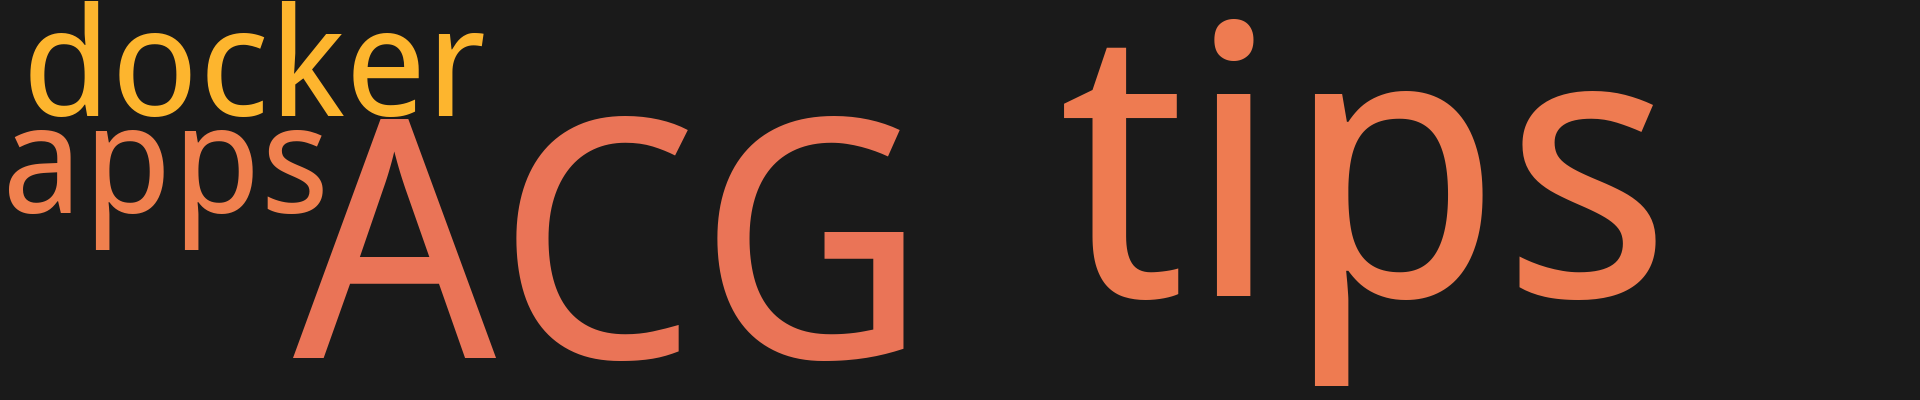
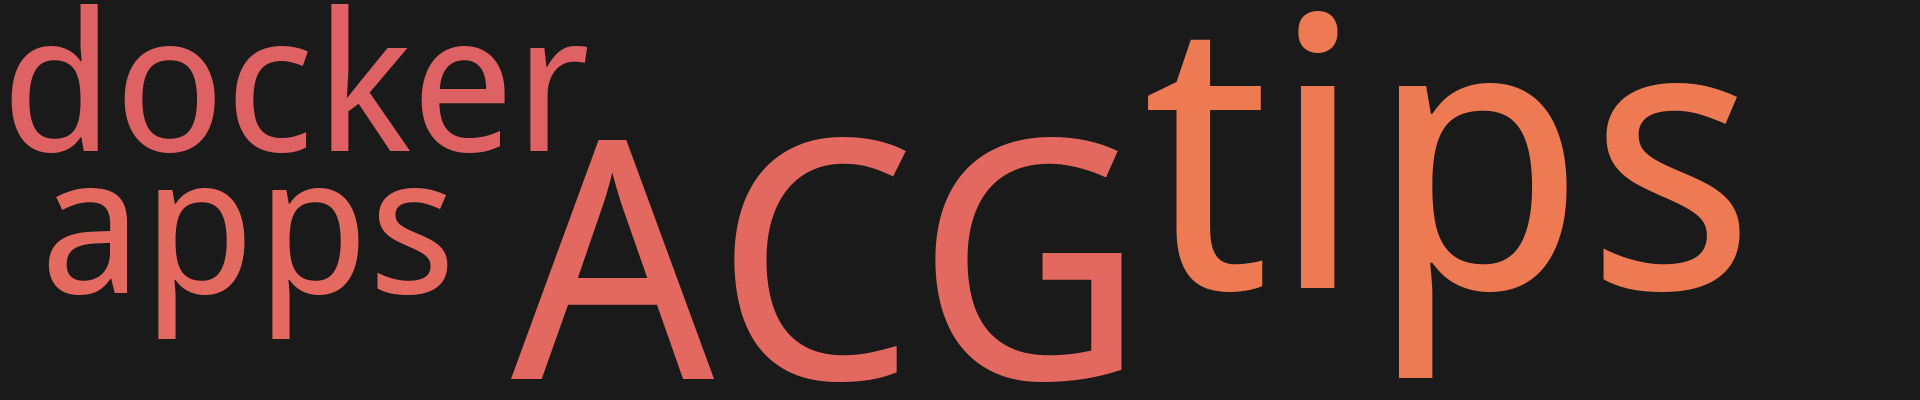
Enhance mobile navigation: Implement collapsible table of contents for mobile view in article templates, update CSS for improved styling and responsiveness, and refresh README.md with the latest commit timestamp. Replace word cloud images for visual consistency.

Changed region(s): [[0.0, 0.0, 0.9062, 0.96]]

diff --git a/src/templates/base.html b/src/templates/base.html
@@ -218,6 +218,54 @@
                 const tocItems = document.querySelectorAll('.toc-item a');
                 if (tocItems.length === 0) return;
                 
+                // 移动端目录折叠功能
+                function initMobileTocToggle() {
+                    const tocSidebar = document.querySelector('.toc-sidebar');
+                    const tocTitle = document.querySelector('.toc-title');
+                    
+                    if (!tocSidebar || !tocTitle) return;
+                    
+                    // 检查是否为移动端
+                    function isMobile() {
+                        return window.innerWidth <= 1023;
+                    }
+                    
+                    // 初始化移动端状态
+                    function initMobileState() {
+                        if (isMobile()) {
+                            tocSidebar.classList.remove('expanded');
+                        } else {
+                            tocSidebar.classList.add('expanded');
+                        }
+                    }
+                    
+                    // 切换折叠状态
+                    function toggleToc() {
+                        if (!isMobile()) return;
+                        
+                        tocSidebar.classList.toggle('expanded');
+                    }
+                    
+                    // 监听标题点击
+                    tocTitle.addEventListener('click', function(e) {
+                        if (isMobile()) {
+                            e.preventDefault();
+                            toggleToc();
+                        }
+                    });
+                    
+                    // 监听窗口大小变化
+                    window.addEventListener('resize', function() {
+                        initMobileState();
+                    });
+                    
+                    // 初始化状态
+                    initMobileState();
+                }
+                
+                // 初始化移动端折叠功能
+                initMobileTocToggle();
+                
                 // 为目录链接添加平滑滚动
                 tocItems.forEach(link => {
                     link.addEventListener('click', function(e) {

diff --git a/src/templates/static/css/base.css b/src/templates/static/css/base.css
@@ -486,6 +486,37 @@ body.dark-mode .theme-icon.moon-icon {
     .article-main {
         padding: 20px;
     }
+    
+    /* 移动端目录折叠功能 */
+    .toc-title {
+        cursor: pointer;
+        user-select: none;
+        display: flex;
+        align-items: center;
+        justify-content: space-between;
+        position: relative;
+    }
+    
+    .toc-toggle {
+        font-size: 14px;
+        color: var(--muted-color);
+        transition: transform 0.3s ease;
+        margin-left: 8px;
+    }
+    
+    .toc-list {
+        max-height: 0;
+        overflow: hidden;
+        transition: max-height 0.3s ease;
+    }
+    
+    .toc-sidebar.expanded .toc-list {
+        max-height: 500px;
+    }
+    
+    .toc-sidebar.expanded .toc-toggle {
+        transform: rotate(180deg);
+    }
 }
 
 @media (max-width: 767px) {

diff --git a/src/templates/article.html b/src/templates/article.html
@@ -48,7 +48,10 @@
     
     {% if toc_items %}
     <aside class="toc-sidebar">
-        <h3 class="toc-title">目录</h3>
+        <h3 class="toc-title">
+            目录
+            <span class="toc-toggle">▼</span>
+        </h3>
         <ul class="toc-list">
             {% for item in toc_items %}
             <li class="toc-item level-{{ item.level }}">

diff --git a/README.md b/README.md
@@ -1,7 +1,7 @@
 
 <p align='center'>
     <img src="https://badgen.net/github/issues/syaofoxsyaofox.github.io"/>
-    <img src="https://badgen.net/badge/last-commit/2025-10-14 18:23:36"/>
+    <img src="https://badgen.net/badge/last-commit/2025-10-14 19:06:05"/>
     <img src="https://badgen.net/github/forks/syaofoxsyaofox.github.io"/>
     <img src="https://badgen.net/github/stars/syaofoxsyaofox.github.io"/>
     <img src="https://badgen.net/github/watchers/syaofoxsyaofox.github.io"/>
